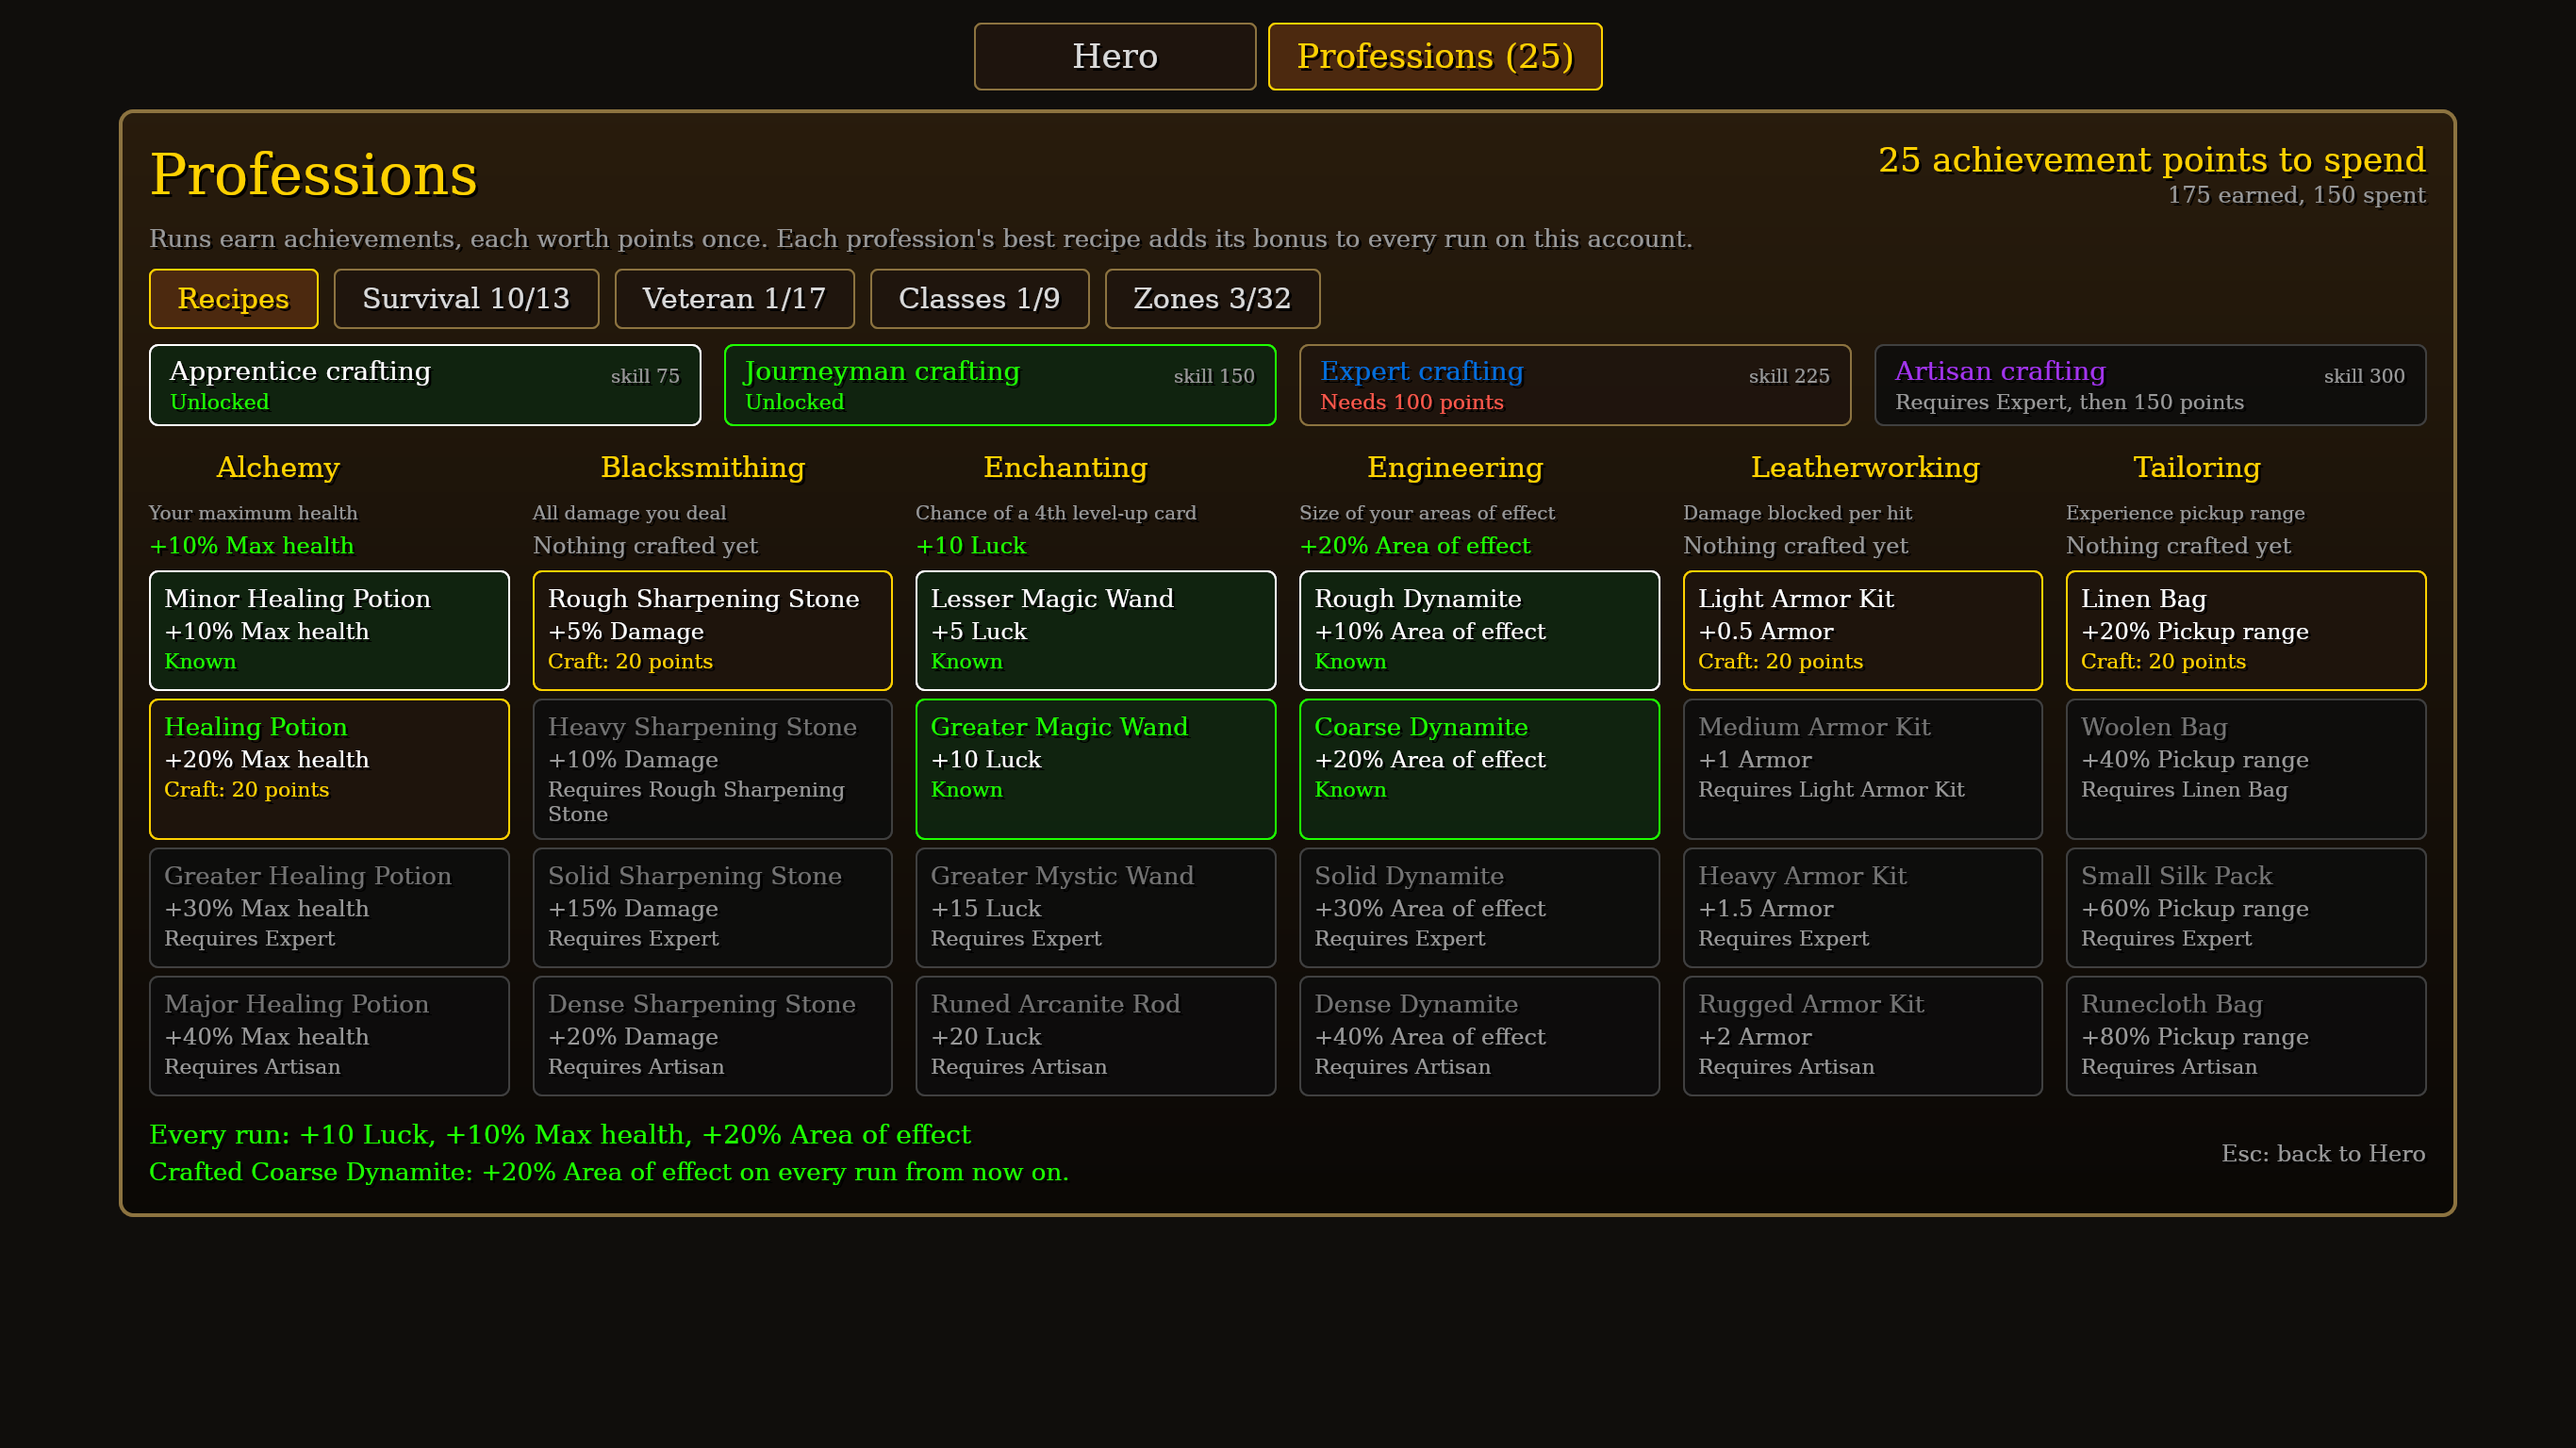
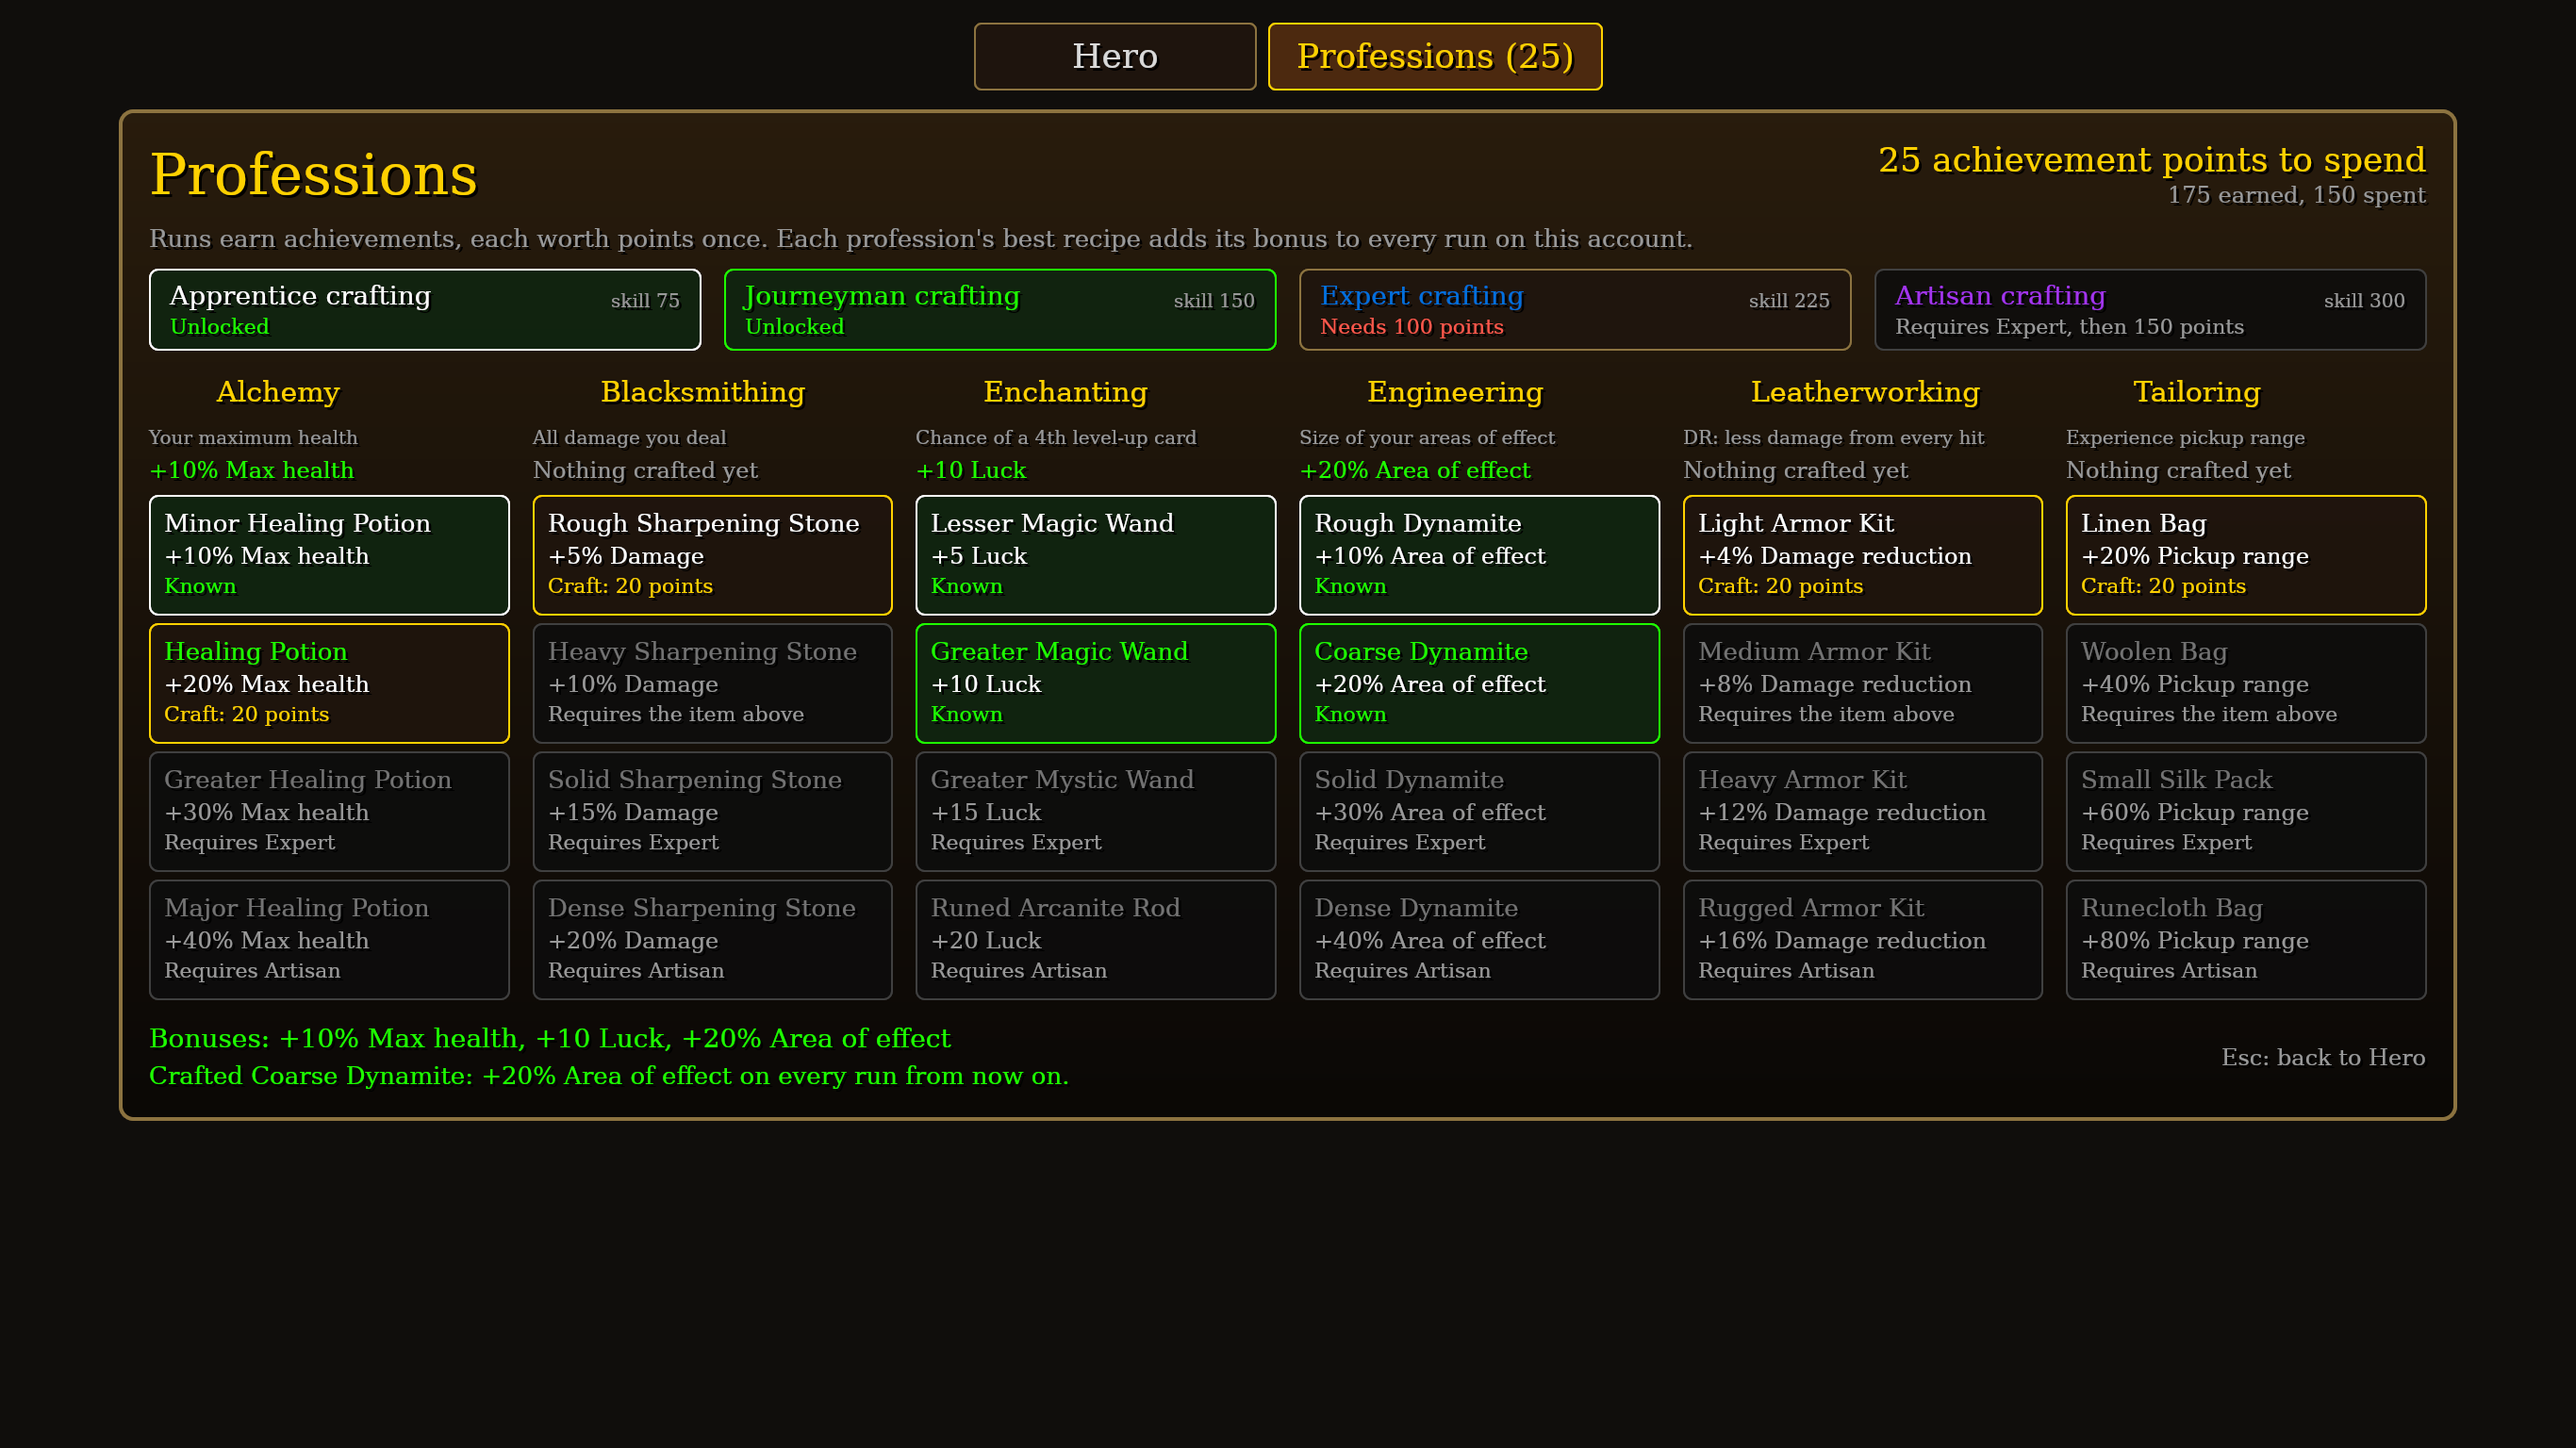
Name the footer "Bonuses" and list it in the columns' order
The Professions tab's footer reads "Bonuses: ..." (it was "Every run:"),
one entry per profession with something crafted, each its best item's
total, ordered like the profession columns (Max health, Damage, Luck,
Area of effect, Damage reduction, Pickup range). A test checks the line
against an account's crafts, best-not-sum included. The preview in
docs/screenshots is re-rendered with DR, without the achievements view,
and with the new footer.

Claude-Session: https://claude.ai/code/session_017YasxRrGVH9NVc3HHHBBeM

Changed region(s): [[0.0311, 0.1875, 0.9334, 0.8438], [0.9023, 0.25, 0.9334, 0.2812], [0.9023, 0.1875, 0.9334, 0.2188]]

diff --git a/crates/benilla-app/src/survivors/professions.rs b/crates/benilla-app/src/survivors/professions.rs
@@ -901,6 +901,16 @@ fn brackets(ui: &mut ChildSpawnerCommands, f: &Handle<Font>, profile: &Profile) 
         });
 }
 
+/// The footer's line: what every run gets now, one entry per profession with something crafted,
+/// each its best item's total, in the columns' order.
+fn bonuses_line(bonuses: &Bonuses) -> String {
+    if bonuses.is_empty() {
+        "Bonuses: none yet. Craft an item and every run after gets its bonus.".into()
+    } else {
+        format!("Bonuses: {}", bonuses.lines().join(", "))
+    }
+}
+
 /// The bonuses every run gets now, the last craft's answer, and the way back.
 fn footer(ui: &mut ChildSpawnerCommands, f: &Handle<Font>, panel: &Panel, profile: &Profile) {
     let bonuses = profile.bonuses();
@@ -918,21 +928,8 @@ fn footer(ui: &mut ChildSpawnerCommands, f: &Handle<Font>, panel: &Panel, profil
             ..default()
         })
         .with_children(|c| {
-            if bonuses.is_empty() {
-                c.spawn(text_bundle(
-                    f,
-                    "No bonuses yet: craft a recipe and every run after gets its bonus.",
-                    14.0,
-                    DIM,
-                ));
-            } else {
-                c.spawn(text_bundle(
-                    f,
-                    format!("Every run: {}", bonuses.lines().join(", ")),
-                    14.0,
-                    UNCOMMON,
-                ));
-            }
+            let color = if bonuses.is_empty() { DIM } else { UNCOMMON };
+            c.spawn(text_bundle(f, bonuses_line(&bonuses), 14.0, color));
             if let Some((msg, color)) = &panel.message {
                 c.spawn(text_bundle(f, msg.clone(), 13.0, *color));
             }
@@ -967,6 +964,38 @@ mod tests {
             .map(|r| r.cost)
             .sum();
         assert!(earnable >= costs, "{earnable} points cannot buy {costs}");
+    }
+
+    /// The footer shows each profession's best item, not their sum, and nothing for a profession
+    /// with nothing crafted.
+    #[test]
+    fn the_bonuses_line_shows_the_stats_the_account_has() {
+        let mut p = profile();
+        assert_eq!(
+            bonuses_line(&p.bonuses()),
+            "Bonuses: none yet. Craft an item and every run after gets its bonus."
+        );
+        let run = RunRecord {
+            class_id: 8,
+            zone: 0,
+            seconds: 900.0,
+            level: 30,
+            kills: 3000,
+            bosses_slain: 5,
+            won: true,
+        };
+        p.account.record_run(&run, &p.catalog);
+        p.account
+            .unlock(survivors_professions::Bracket::Journeyman, &p.catalog)
+            .unwrap();
+        // Both wands, both dynamites, the first potion and the first armor kit.
+        for (prof, tier) in [(2, 0), (2, 1), (3, 0), (3, 1), (0, 0), (4, 0)] {
+            p.account.craft(prof, tier, &p.catalog).unwrap();
+        }
+        assert_eq!(
+            bonuses_line(&p.bonuses()),
+            "Bonuses: +10% Max health, +10 Luck, +20% Area of effect, +4% Damage reduction"
+        );
     }
 
     #[test]

diff --git a/crates/survivors-professions/src/professions.rs b/crates/survivors-professions/src/professions.rs
@@ -26,10 +26,12 @@ pub enum BonusStat {
 }
 
 impl BonusStat {
+    /// In the professions' order (Alchemy, Blacksmithing, Enchanting, Engineering, Leatherworking,
+    /// Tailoring), so a list of bonuses reads like the professions' columns.
     pub const ALL: [BonusStat; 6] = [
-        BonusStat::Luck,
-        BonusStat::Damage,
         BonusStat::MaxHealth,
+        BonusStat::Damage,
+        BonusStat::Luck,
         BonusStat::Area,
         BonusStat::DamageReduction,
         BonusStat::PickupRange,
@@ -421,6 +423,12 @@ mod tests {
             PROFESSIONS[p].stat.format(coarse.value),
             "+20% Area of effect"
         );
+    }
+
+    #[test]
+    fn stats_are_listed_in_the_professions_order() {
+        let order: Vec<BonusStat> = PROFESSIONS.iter().map(|p| p.stat).collect();
+        assert_eq!(order, BonusStat::ALL);
     }
 
     #[test]

diff --git a/PROFESSIONS.md b/PROFESSIONS.md
@@ -8,7 +8,8 @@ into small permanent bonuses for the whole account:
    per account.
 2. **Points unlock brackets and buy recipes.** The menu has a **Professions** tab next to
    **Hero** (the pick screen), at the top: the trainer's brackets, then six professions with one
-   item per bracket, and the bonuses every run gets now. The tab's label shows the points waiting
+   item per bracket, and a **Bonuses** line listing what every run gets now (each profession's
+   best item, in the columns' order). The tab's label shows the points waiting
    to be spent, e.g. *Professions (35)*. **Esc** goes back to Hero. (Achievements have no screen
    of their own: the results screen says what each run earned.)
 3. **Brackets gate the recipes, as WoW Classic's trainer ranks do.** Every account is an
